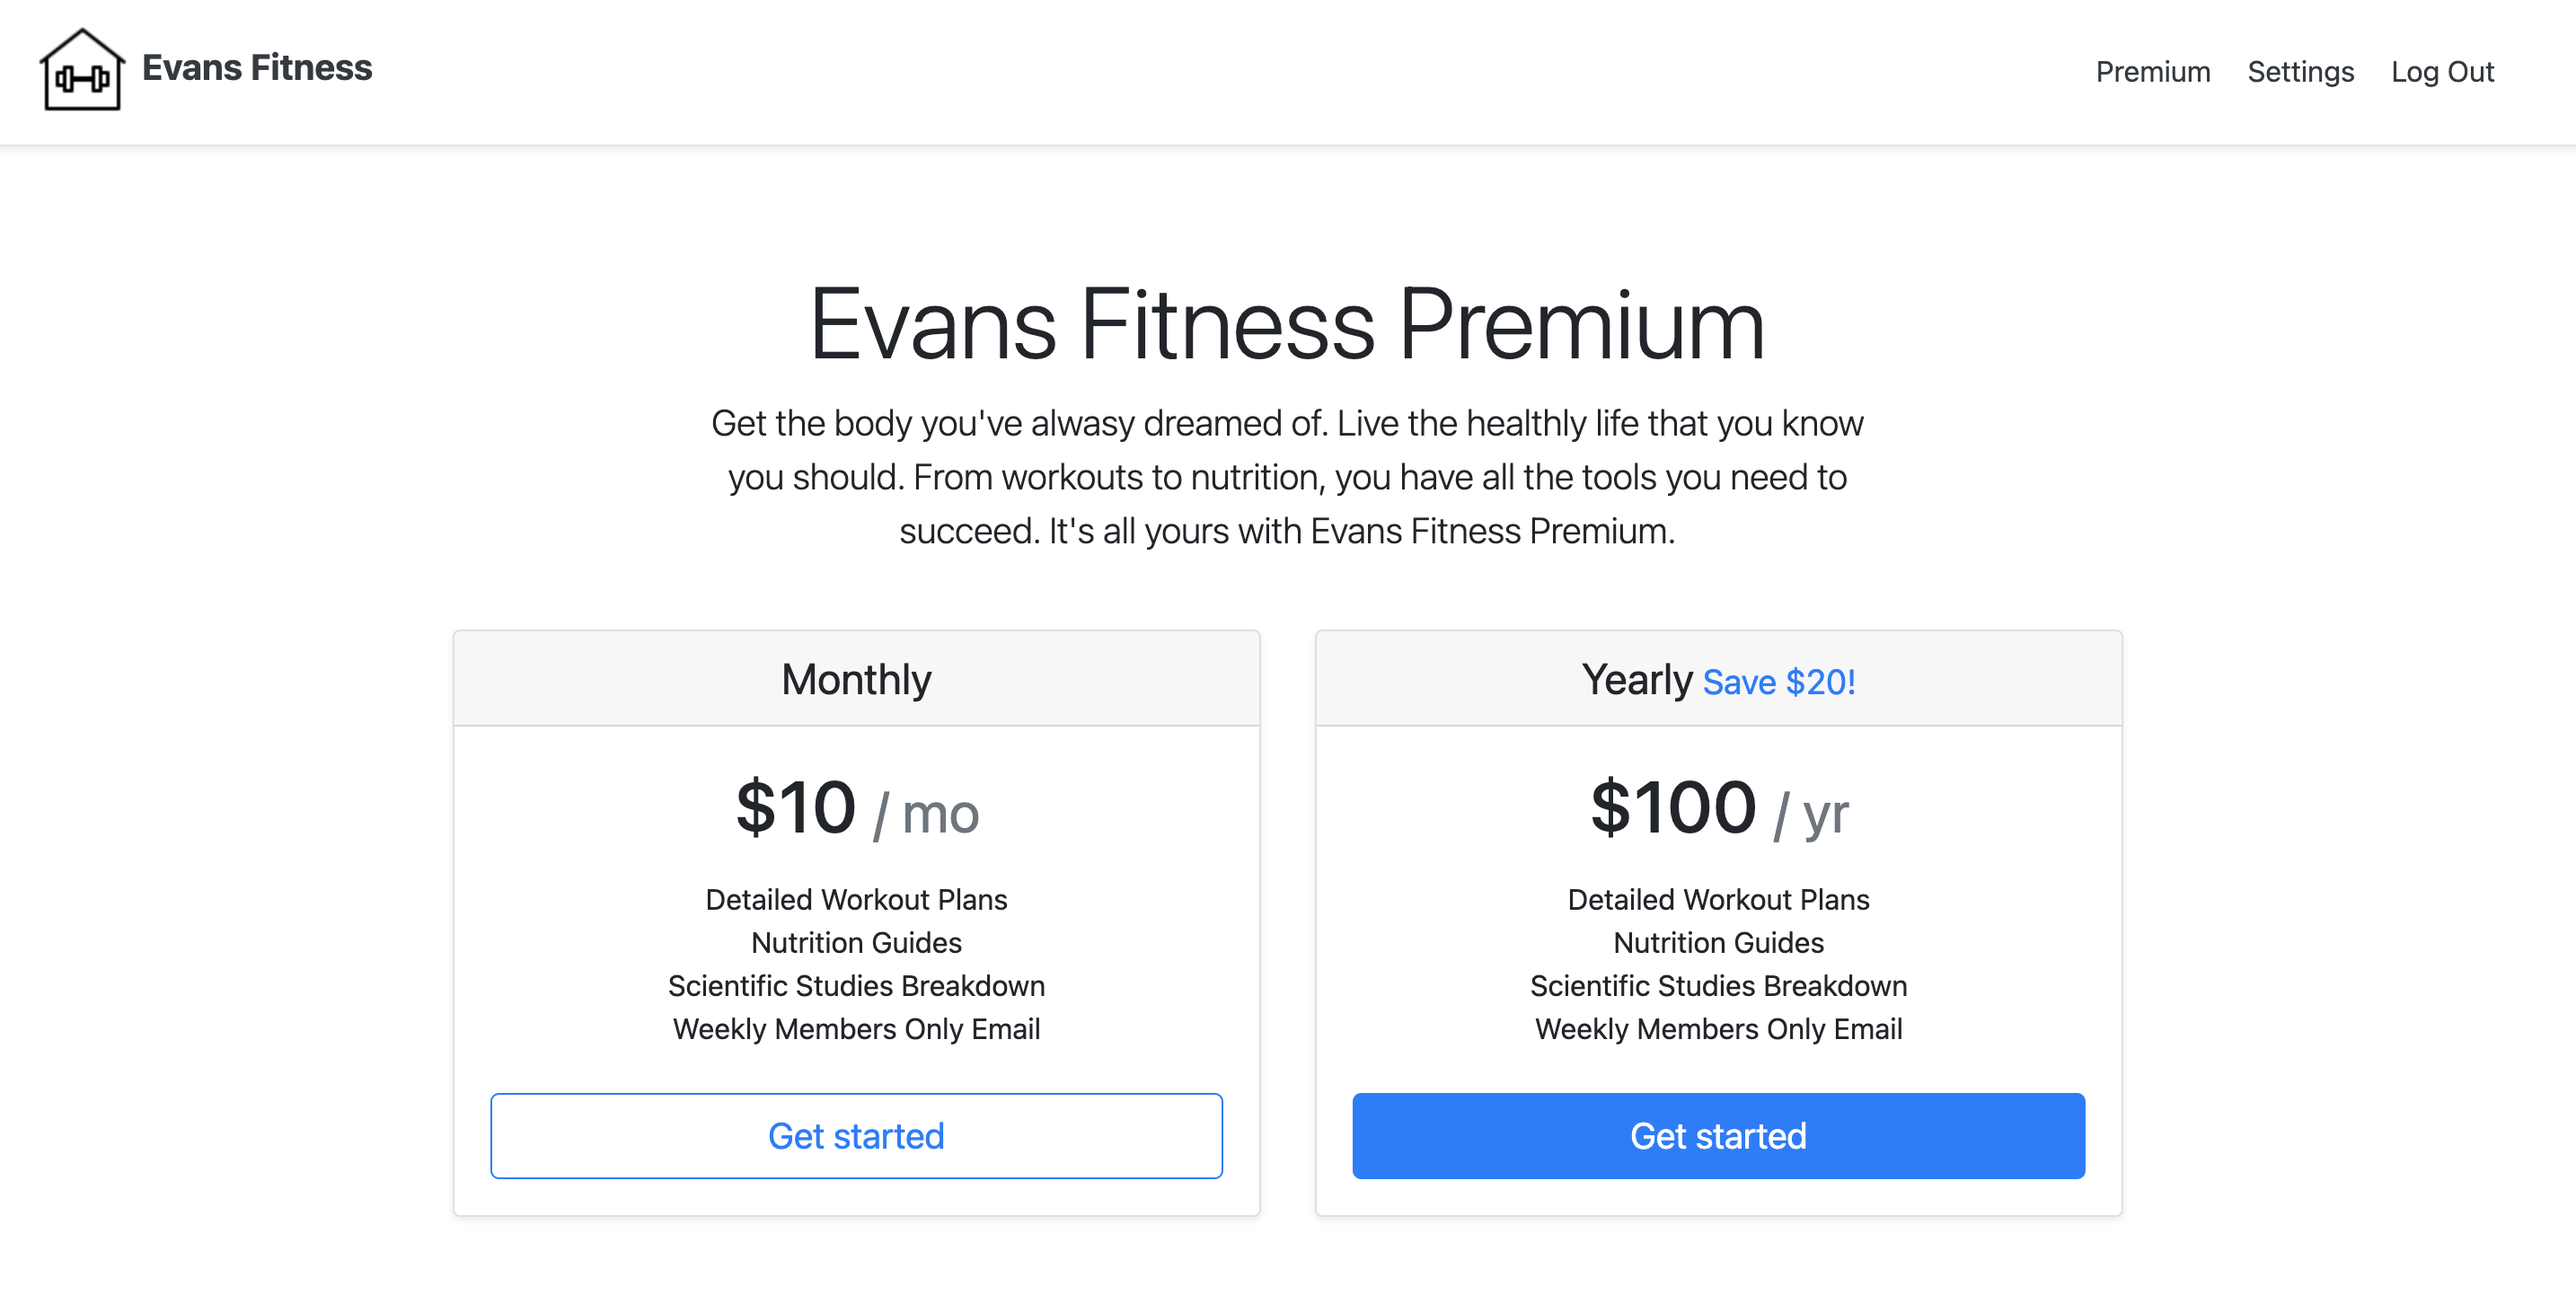
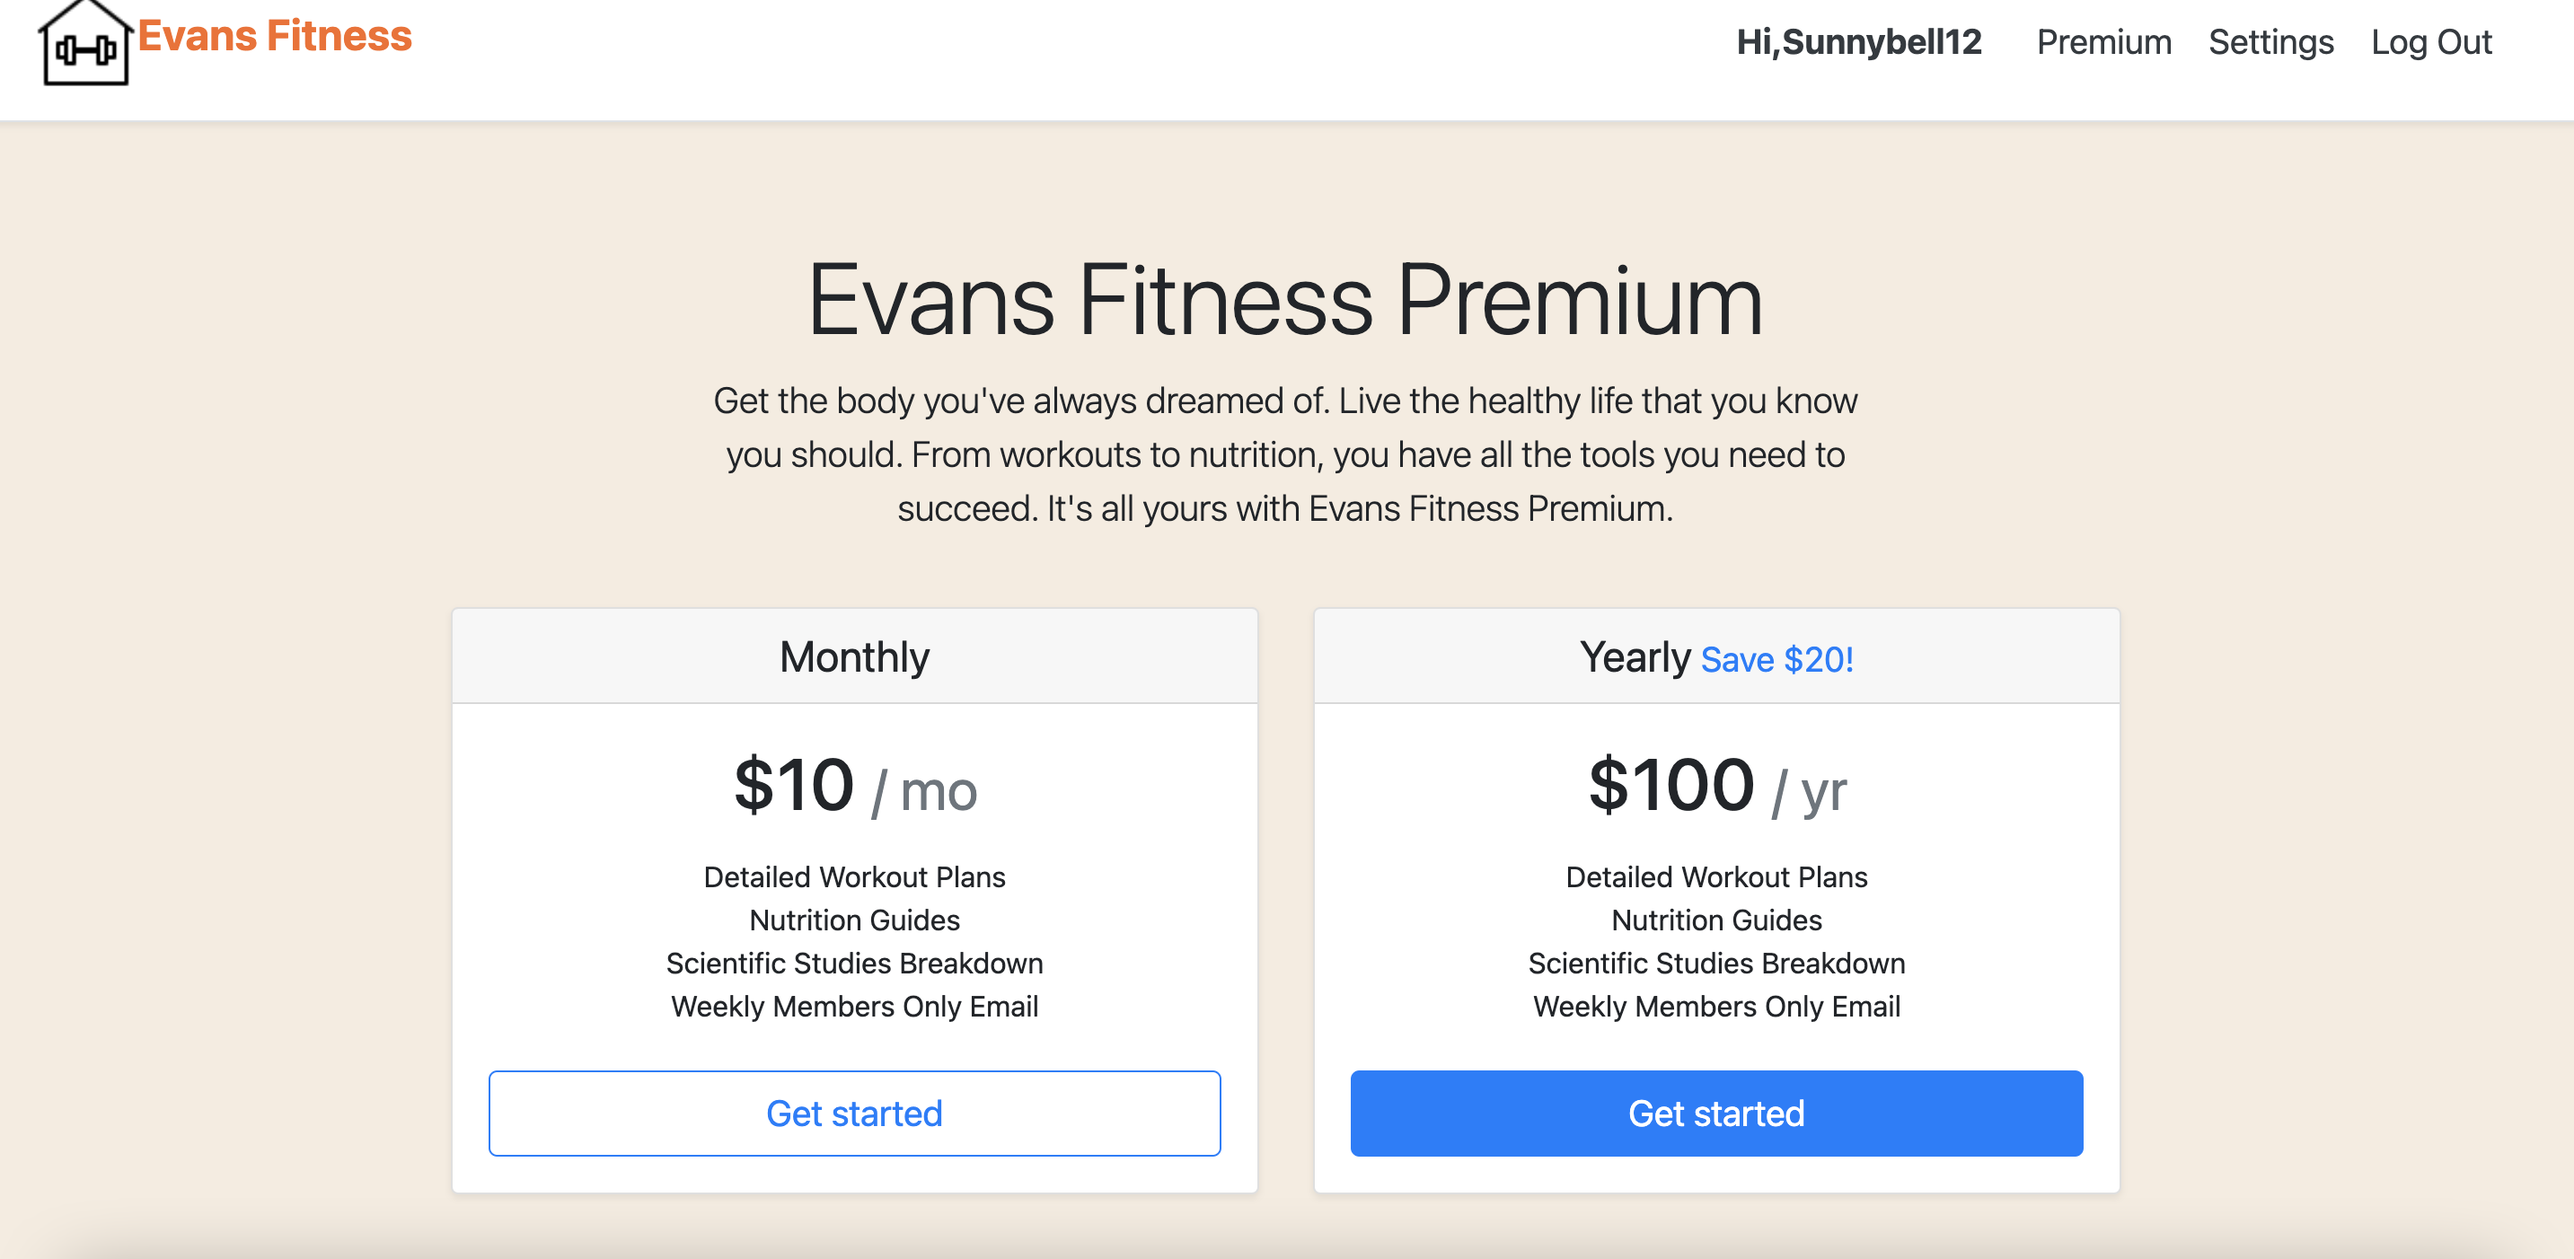
making changes to project

diff --git a/plans/static/css/style.css b/plans/static/css/style.css
@@ -1,7 +1,12 @@
-body {
+html,body {
     background-color: rgb(246, 236, 224);
     height: 100vh;
+    margin:0;
+    padding:0;
+    
 }
+
+
 
 html {
     font-size: 14px;
@@ -75,8 +80,17 @@ footer {
     background-color: black;
     padding: 5vh;
     color: #fff;
+    margin-bottom:0 !important;
+    bottom: 0 ;
+    position:relative;
+    width:100%;
 }
+/* .footer-wrapper{
+ 
+    position: relative
+} */
+
 .footer-links p{
     display: inline;
-    margin: 10px
+    margin: 13px
 }

diff --git a/plans/templates/plans/base.html b/plans/templates/plans/base.html
@@ -34,14 +34,6 @@
 
     {% block content %}
         {% endblock %}
-        <footer class='mt-auto'>
-        <div class="footer-links">
-          <p>
-            Copyright 2021 All rights reserved
-           </p>
-           <p>Terms of service</p>
-           <p>Privacy policy</p>
-        </div>
-        </footer>
+        {% include "plans/footer.html" %}
 </body>
 </html>

diff --git a/plans/templates/registration/settings.html b/plans/templates/registration/settings.html
@@ -9,7 +9,7 @@
     <input type="submit" value="Cancel Membership?">
   </form>
   {% else %}
- <h4> <a href="{% url 'join' %}">Get a membership</a></h4>
+ <h4 class='mt-5'> <a href="{% url 'join' %}">Get a membership</a></h4>
   {% endif %}
 </div>
 {% endblock %}

diff --git a/plans/templates/plans/footer.html b/plans/templates/plans/footer.html
@@ -1,0 +1,9 @@
+  <footer>
+    <div class="footer-links">
+      <p>
+        Copyright ©2021 Evans Fitness &nbsp;  All rights reserved
+       </p>
+       <p>Terms of service</p>
+       <p>Privacy policy</p>
+    </div>
+    </footer>

diff --git a/plans/views.py b/plans/views.py
@@ -55,7 +55,7 @@ def checkout(request):
     except Customer.DoesNotExist:
         pass
 
-    coupons = {'halloween':31, 'welcome':10}
+    coupons = {'halloween':20, 'welcome':10}
 
     if request.method == 'POST':
         stripe_customer = stripe.Customer.create(email=request.user.email, source=request.POST['stripeToken'])

diff --git a/README.md b/README.md
@@ -2,26 +2,36 @@
 <h3>Premium fitness website</h3>
 
 
-<h5>On the home page , you should be able to click on some of articles but some are also premium contents so you will need to activate premium in order to have access to those contents
+<h5>On the home page , you should be able to click on some of articles but some are  premium contents so you will need to activate premium in order to have access to those contents
 </h5>
 <ul>
-    <li>You need to create an account and login in before you can subscribe to a paid membership</li>
+    <li>You need to create an account and login in before you can subscribe to a paid membership/ premium</li>
     <li>Users can use promo codes to get percentages off their premium subscriptions eg. HALLOWEEN,WELCOME etc</li>
-    <li>Users can also cancel their membership prematurely which will run to the end of the billing cycle.</li>
+    <li>Users can also cancel their membership prematurely which will run to the end of the billing cycle. eg Yearly/Monthly</li>
 </ul>
-<<<<<<< HEAD
 
-<p>This project also features Django authentication as users needs to be authenticated before they can subscribe to premium features</p>
 
-<img src="/images/first" alt="" width="700">
-<img src="/images/second" alt="" width="700">
-<img src="/images/third" alt="" width="700">
-<img src="/images/forth" alt="" width="700">
-=======
-<img src="/images/first.png" alt="" width="700">
-<img src="/images/second.png" alt="" width="700">
-<img src="/images/third.png" alt="" width="700">
-<img src="/images/forth.png" alt="" width="700">
+<p>This project also features Django authentication as users needs to be Authenticated and Authorization before they can subscribe to premium</p>
+ 
+<p>You can also use sample cards to test payments.
+Use any three digits as CVC and any future date
+
+for example : 232 as cvc and 02/2022 as expiry date 
+</p>
+
+<ol>
+    <li>4242424242424242</li>
+    <li>5555555555554444</li>
+    <li>378282246310005</li>
+   <li>6011111111111117</li>
+   <li>6200000000000005</li>
+</ol>
+
+<img src="/images/first.png" alt="project" width="700">
+<img src="/images/second.png" alt="project"  width="700">
+<img src="/images/third.png" alt="project"  width="700">
+<img src="/images/forth.png" alt="project"  width="700">
+<img src="/images/fifth" alt="project"  width="700">
 
 View live site <a href="https://still-beach-39111.herokuapp.com" target="_blank">here</a>
->>>>>>> 2bd47ec840a0678742baeabe4d0c1715e637272b
+
